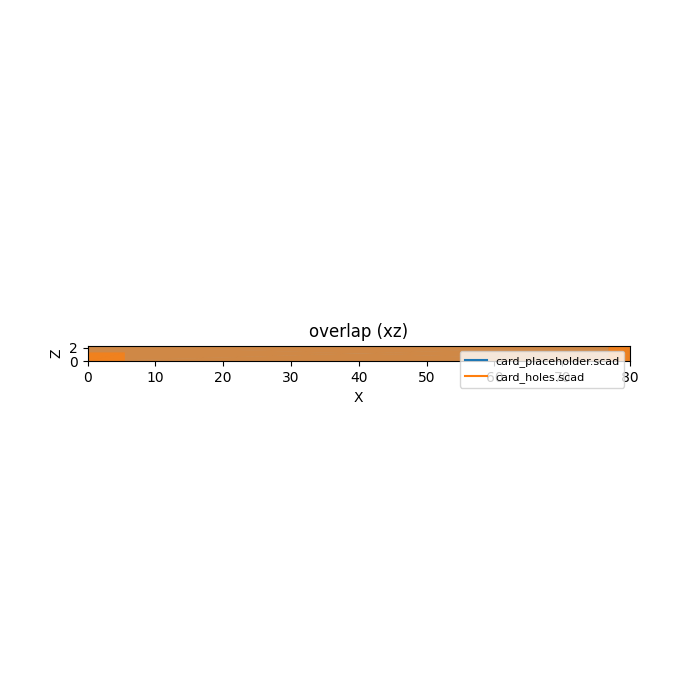
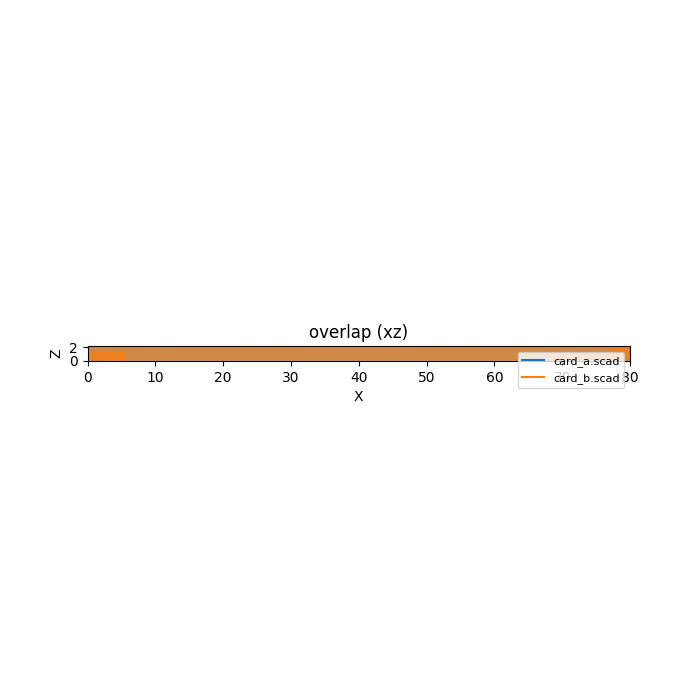
fix(drives): correct M.2 card height 2.3->2.15mm (RESEARCH.md [A] supersedes stale seed), tag card-table scalars, add U2_EXT known-gap bullet

Changed region(s): [[0.66, 0.48, 0.9, 0.57], [0.45, 0.45, 0.57, 0.48]]

diff --git a/libraries/drives/README.md b/libraries/drives/README.md
@@ -113,13 +113,13 @@ geometry).
 
 ![card-family overlay: m2_2280, placeholder vs. mount hole + card-edge cutout](renders/card-overlay.png)
 
-`m2_2280` (M.2 80mm). Because the card is only 2.3mm tall, the vertical
+`m2_2280` (M.2 80mm). Because the card is only 2.15mm tall, the vertical
 (XZ) projection compresses most detail into a thin strip — cutout placement
 was additionally confirmed by direct STL bounding-box inspection: the mount
 hole sits at `x=78.55` (near the far/free end, inside `[0,80]`), and the
 card-edge connector cutout spans `x=[-20.5, 5.5]` (overlapping the body only
 from `x=0` to `5.5`, i.e. cut into the connector end as intended) and
-`z=[-0.5, 1.3]` (the lower portion of the card's 2.3mm thickness, since the
+`z=[-0.5, 1.3]` (the lower portion of the card's 2.15mm thickness, since the
 connector record's height reuses the 0.8mm PCB-thickness figure, not the
 full assembled-card height — see Known Gaps).
 
@@ -199,6 +199,10 @@ own (now-stale) seed gap list.
   Datum-B (screw-hole-referenced) composition path. Position x/y tier [A];
   z and the U.2 reuse (assumes SFF-8639's compatibility statement carries
   the position over unchanged) tier `//VERIFY`.
+- **U.2 connector extent** (`U2_EXT()`'s `w=4.00`, `h=4.90`): only the depth
+  `d=33.43` is tier [A] (SFF-TA-8639 Figure 5-1, directly read); `w` and `h`
+  are `//VERIFY` — not independently re-dimensioned from the U.2 spec this
+  pass, carried over from the plain-SATA connector figures instead.
 - **2.5" envelope length** (`_block_table()`'s `100.0` for all `ssd25_*`/`u2`
   rows): tier **[C]**, test-mandated round number — the spec's own three
   genuine values (100.20mm nominal, 100.45mm new-Max, 101.85mm obsolete-Max)
@@ -226,7 +230,7 @@ own (now-stale) seed gap list.
   height is this pass's modeling choice, not a datasheet-stated connector
   height — flagged `//VERIFY`. Practical effect (confirmed by this task's
   render/bbox check): `drive_connector_cutout("m2_2280")` only carves the
-  lower 1.3mm of the card's 2.3mm total thickness at the connector end, not
+  lower 1.3mm of the card's 2.15mm total thickness at the connector end, not
   a full-height slot — a consumer modeling a real M.2 socket keepout should
   check whether that partial height is sufficient for their use case.
 - **M.2 card-edge connector x=0 placement**: tier **[C]**, this pass's own